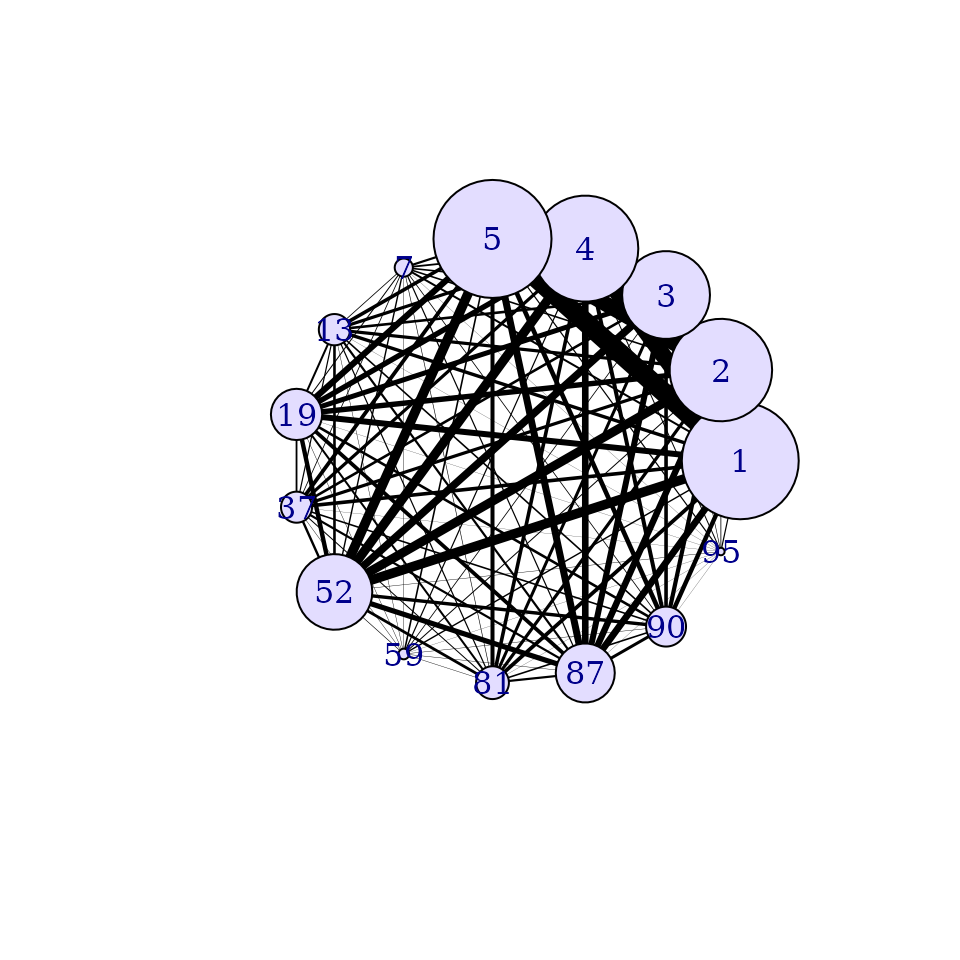
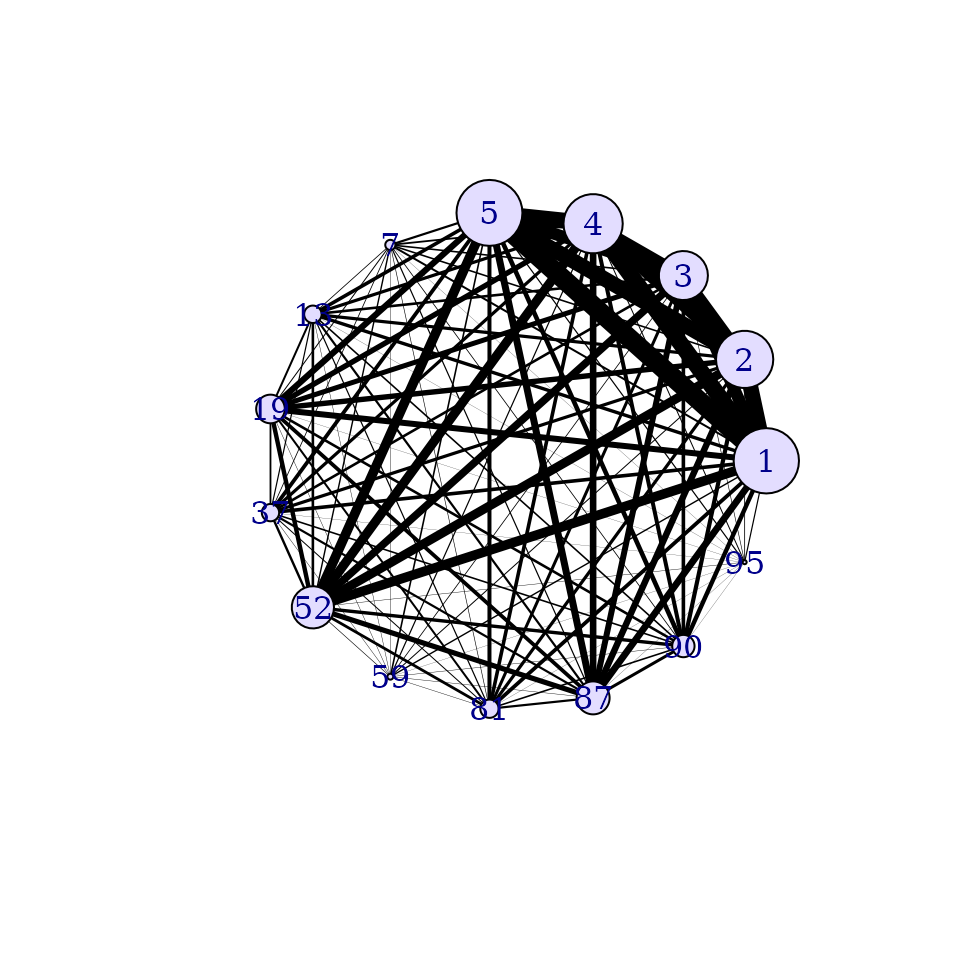
Deploying to gh-pages from @ SMAC-Group/swaglm@bd5d8e638ef6555d760ccc52bfc937364bdcdc06 🚀

Changed region(s): [[0.25, 0.1875, 0.8438, 0.75]]

diff --git a/articles/run_swaglm.html b/articles/run_swaglm.html
@@ -169,7 +169,7 @@ models</h1>
 </h3>
 <div class="sourceCode" id="cb6"><pre class="downlit sourceCode r">
 <code class="sourceCode R"><span><span class="va">swag_network</span> <span class="op">&lt;-</span> <span class="fu"><a href="../reference/compute_network.html">compute_network</a></span><span class="op">(</span><span class="va">swag_obj</span><span class="op">)</span></span>
-<span><span class="fu"><a href="https://rdrr.io/r/graphics/plot.default.html" class="external-link">plot</a></span><span class="op">(</span><span class="va">swag_network</span>, scale_vertex<span class="op">=</span><span class="fl">0.1</span><span class="op">)</span></span></code></pre></div>
+<span><span class="fu"><a href="https://rdrr.io/r/graphics/plot.default.html" class="external-link">plot</a></span><span class="op">(</span><span class="va">swag_network</span>, scale_vertex<span class="op">=</span><span class="fl">0.05</span><span class="op">)</span></span></code></pre></div>
 <p><img src="run_swaglm_files/figure-html/unnamed-chunk-6-1.png" width="480" style="display: block; margin: auto;"></p>
 </div>
 <div class="section level3">
@@ -228,7 +228,7 @@ models</h1>
 </h3>
 <div class="sourceCode" id="cb10"><pre class="downlit sourceCode r">
 <code class="sourceCode R"><span><span class="va">swag_network</span> <span class="op">&lt;-</span> <span class="fu"><a href="../reference/compute_network.html">compute_network</a></span><span class="op">(</span><span class="va">swag_obj</span><span class="op">)</span></span>
-<span><span class="fu"><a href="https://rdrr.io/r/graphics/plot.default.html" class="external-link">plot</a></span><span class="op">(</span><span class="va">swag_network</span>, scale_vertex<span class="op">=</span><span class="fl">0.1</span><span class="op">)</span></span></code></pre></div>
+<span><span class="fu"><a href="https://rdrr.io/r/graphics/plot.default.html" class="external-link">plot</a></span><span class="op">(</span><span class="va">swag_network</span>, scale_vertex<span class="op">=</span><span class="fl">0.05</span><span class="op">)</span></span></code></pre></div>
 <p><img src="run_swaglm_files/figure-html/unnamed-chunk-10-1.png" width="480" style="display: block; margin: auto;"></p>
 </div>
 <div class="section level3">
@@ -288,7 +288,7 @@ models</h1>
 </h3>
 <div class="sourceCode" id="cb14"><pre class="downlit sourceCode r">
 <code class="sourceCode R"><span><span class="va">swag_network</span> <span class="op">&lt;-</span> <span class="fu"><a href="../reference/compute_network.html">compute_network</a></span><span class="op">(</span><span class="va">swag_obj</span><span class="op">)</span></span>
-<span><span class="fu"><a href="https://rdrr.io/r/graphics/plot.default.html" class="external-link">plot</a></span><span class="op">(</span><span class="va">swag_network</span>, scale_vertex<span class="op">=</span><span class="fl">0.1</span><span class="op">)</span></span></code></pre></div>
+<span><span class="fu"><a href="https://rdrr.io/r/graphics/plot.default.html" class="external-link">plot</a></span><span class="op">(</span><span class="va">swag_network</span>, scale_vertex<span class="op">=</span><span class="fl">0.05</span><span class="op">)</span></span></code></pre></div>
 <p><img src="run_swaglm_files/figure-html/unnamed-chunk-14-1.png" width="480" style="display: block; margin: auto;"></p>
 </div>
 <div class="section level3">
